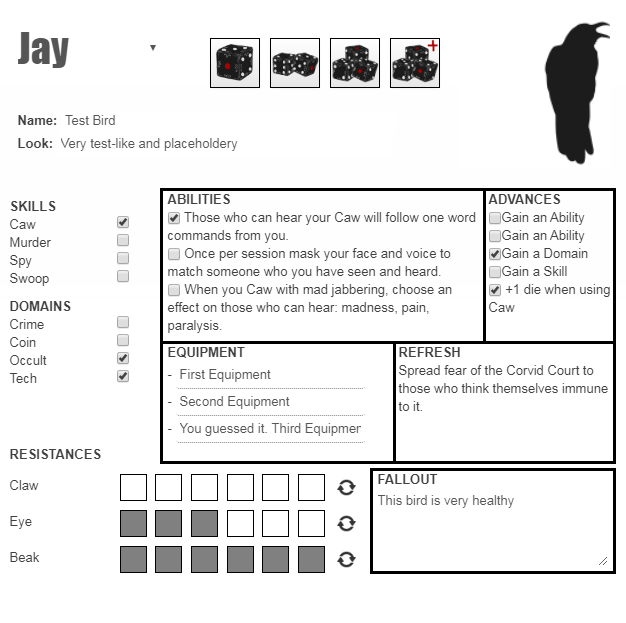
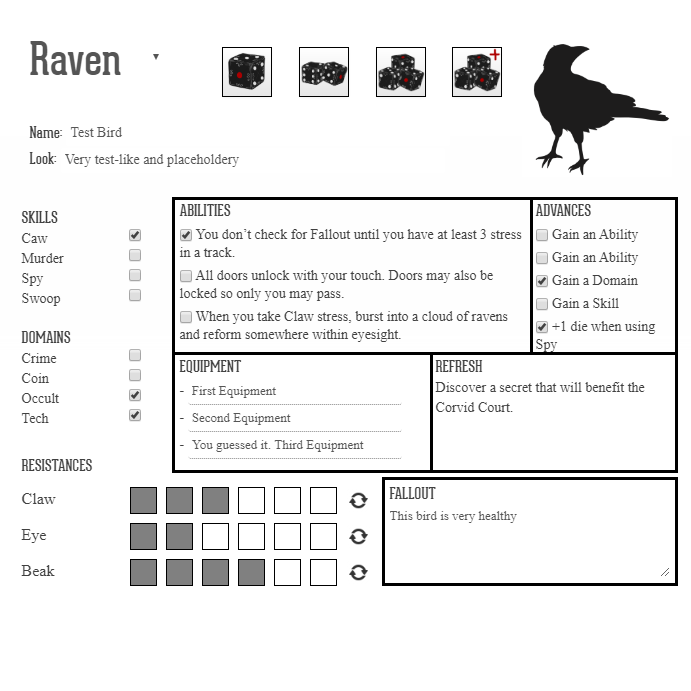
Font hooked up, preview updated

diff --git a/CorvidCourt/corvid.html b/CorvidCourt/corvid.html
@@ -13,16 +13,16 @@
 
   <div class="buttons">
     <button type="roll" value="&{template:roll} {{rolltitle=ROLLING 1 DIE}} {{rollresult=[[1d6cf<3k1]]}}" name="Single_Die">
-      <img src="https://i.imgur.com/Lr0BhKz.png"/>
+      <img src="https://raw.githubusercontent.com/n-mann/roll20-character-sheets/master/CorvidCourt/assets/dice_1.png"/>
     </button>
     <button type="roll" value="&{template:roll} {{rolltitle=ROLLING 2 DICE}} {{rollresult=[[2d6cf<3k1]]}}" name="Two_Dice">
-      <img src="https://i.imgur.com/Fi90WgH.png"/>
+      <img src="https://raw.githubusercontent.com/n-mann/roll20-character-sheets/master/CorvidCourt/assets/dice_2.png"/>
     </button>
     <button type="roll" value="&{template:roll} {{rolltitle=ROLLING 3 DICE}} {{rollresult=[[3d6cf<3k1]]}}" name="Three_Dice">
-      <img src="https://i.imgur.com/5CSwUBl.png"/>
+      <img src="https://raw.githubusercontent.com/n-mann/roll20-character-sheets/master/CorvidCourt/assets/dice_3.png"/>
     </button>
     <button type="roll" value="&{template:roll} {{rolltitle=ROLLING ?{How many dice?} DICE}} {{rollresult=[[?{How many dice?}d6cf<3k1]]}}" name="Multiple_Dice">
-      <img src="https://i.imgur.com/INGXX9K.png"/>
+      <img src="https://raw.githubusercontent.com/n-mann/roll20-character-sheets/master/CorvidCourt/assets/dice_p.png"/>
     </button>
   </div>
 
@@ -32,10 +32,10 @@
   </div>
 
   <div class="class-icon">
-    <img class="crow-only" src="https://i.imgur.com/cWXM0lM.png"/>
-    <img class="raven-only" src="https://i.imgur.com/xezvkEd.png"/>
-    <img class="jay-only" src="https://i.imgur.com/m16p6Y8.png"/>
-    <img class="magpie-only" src="https://i.imgur.com/NuEZzGA.png"/>
+    <img class="crow-only" src="https://raw.githubusercontent.com/n-mann/roll20-character-sheets/master/CorvidCourt/assets/crow.png"/>
+    <img class="raven-only" src="https://raw.githubusercontent.com/n-mann/roll20-character-sheets/master/CorvidCourt/assets/raven.png"/>
+    <img class="jay-only" src="https://raw.githubusercontent.com/n-mann/roll20-character-sheets/master/CorvidCourt/assets/jay.png"/>
+    <img class="magpie-only" src="https://raw.githubusercontent.com/n-mann/roll20-character-sheets/master/CorvidCourt/assets/magpie.png"/>
   </div>
 
   <div class="skills-div">
@@ -85,10 +85,10 @@
     
     <div class="advances-div">
       <p><span class="title-text">ADVANCES</span>
-      <p><input type="checkbox" name="attr_advance_1"/>Gain an Ability</p>
-      <p><input type="checkbox" name="attr_advance_2"/>Gain an Ability</p>
-      <p><input type="checkbox" name="attr_advance_3"/>Gain a Domain</p>
-      <p><input type="checkbox" name="attr_advance_4"/>Gain a Skill</p>
+      <p><input type="checkbox" name="attr_advance_1"/> Gain an Ability</p>
+      <p><input type="checkbox" name="attr_advance_2"/> Gain an Ability</p>
+      <p><input type="checkbox" name="attr_advance_3"/> Gain a Domain</p>
+      <p><input type="checkbox" name="attr_advance_4"/> Gain a Skill</p>
       <p><input type="checkbox" name="attr_advance_5"/>
         <span class="crow-only">+1 die when using Murder</span>
         <span class="raven-only">+1 die when using Spy</span>
@@ -166,8 +166,8 @@
 </div>
 
 <rolltemplate class="sheet-rolltemplate-roll">
-  <div class="roll">
-    <span class="title-text">{{rolltitle}}</span>
-    {{rollresult}}: {{#rollWasFumble() rollresult}}Failure{{/rollWasFumble() rollresult}}{{#^rollWasFumble() rollresult}}Success{{#^rollWasCrit() rollresult}}, with consequences{{/^rollWasCrit() rollresult}}{{/^rollWasFumble() rollresult}}
+  <div>
+    <p class="sheet-title-text">{{rolltitle}}</p>
+    <p>{{rollresult}}: {{#rollWasFumble() rollresult}}Failure{{/rollWasFumble() rollresult}}{{#^rollWasFumble() rollresult}}Success{{#^rollWasCrit() rollresult}}, with consequences{{/^rollWasCrit() rollresult}}{{/^rollWasFumble() rollresult}}</p>
   </div>
 </rolltemplate>

diff --git a/CorvidCourt/corvid.css b/CorvidCourt/corvid.css
@@ -5,14 +5,24 @@ input[value=magpie]:not(:checked) ~ div .sheet-magpie-only {
   display: none;
 }
 
+@font-face {
+  font-family: gearedSlab;
+  src: url(https://raw.githubusercontent.com/n-mann/roll20-character-sheets/master/CorvidCourt/fonts/GearedSlab.ttf);
+}
+
+@font-face {
+  font-family: plantin;
+  src: url(https://raw.githubusercontent.com/n-mann/roll20-character-sheets/master/CorvidCourt/fonts/Plantin.ttf);
+}
+
 .sheet-title-text {
-  font-weight: bolder;
-  /* font-family: */
+  font-family: gearedSlab;
+  font-size: 16px;
 }
 
 select.sheet-class {
-  font-family: impact;
-  font-size: 40px;
+  font-family: gearedSlab;
+  font-size: 46px;
   height: 60px;
   width: auto;
   border: none;
@@ -55,12 +65,15 @@ div.sheet-line-field {
   top: 85px;
   left: 0;
   right: 200px;
+  font-size: 18px;
 }
 div.sheet-line-field input[type=text] {
   left: 0;
   width: calc(100% - 50px);
   border: none;
-  padding-top: 1px;
+  padding-top: 3px;
+  font-size: 14px;
+  font-family: plantin;
 }
 
 div.sheet-class-icon {
@@ -81,12 +94,16 @@ div.sheet-class-icon {
   top: 180px;
   width: 120px;
   position: absolute;
+  font-family: plantin;
+  font-size: 14px;
 }
 
 .sheet-domains-div {
   top: 300px;
   width: 120px;
   position: absolute;
+  font-family: plantin;
+  font-size: 14px;
 }
 
 
@@ -103,12 +120,16 @@ div.sheet-class-icon {
   height: 270px;
   position: absolute;
   border: 3px solid black;
+  font-family: plantin;
+  font-size: 14px;
 }
 .sheet-main-div div {
   padding-top: 2px;
 }
 .sheet-main-div p {
   margin-bottom: 5px;
+  font-family: plantin;
+  font-size: 14px;
 }
 .sheet-abilities-div {
   border-right: 3px solid black;
@@ -133,7 +154,7 @@ div.sheet-class-icon {
   border-right: 3px solid black;
   height: 115px;
   width: 50%;
-  padding-top: 5px!important;
+  padding-top: 3px!important;
   padding-left: 5px;
 }
 .sheet-equipment-div input {
@@ -146,7 +167,7 @@ div.sheet-class-icon {
   top: 153px;
   right: 0;
   height: 117px;
-  padding-top: 5px!important;
+  padding-top: 3px!important;
   padding-left: 8px;
   width: calc(50% - 11px);
 }
@@ -158,6 +179,8 @@ div.sheet-resistances {
 }
 div.sheet-resistances table {
   width: 100%;
+  font-family: plantin;
+  font-size: 16px;
 }
 div.sheet-resistances td {
   vertical-align: middle;
@@ -210,6 +233,7 @@ div.sheet-resistances input[type=radio]:first-of-type {
   height: 100px;
   width : calc(100% - 365px);
   border: 3px solid black;
+  padding-top: 3px;
   padding-left: 5px;
 }
 
@@ -220,13 +244,37 @@ div.sheet-resistances input[type=radio]:first-of-type {
   bottom: 5px;
   margin: 0;
   padding: 0;
-  height: calc(100% - 2em);
+  height: calc(100% - 2.5em);
   width: calc(100% - 10px);
   border: none;
+  font-family: plantin;
 }
 
-.sheet-roll {
+.sheet-rolltemplate-roll p.sheet-title-text {
+  font-weight: bolder;
+  border-bottom: 1px solid black;
+  padding-left: 3px;
+  padding-top: 3px;
+  margin-bottom: 6px;
+  width: 100%;
+  font-family: gearedSlab;
+  font-size: 16px;
+}
+.sheet-rolltemplate-roll p:last-of-type {
+  margin-bottom: 2px;
+  text-align: center;
+  font-family: plantin;
+}
+.sheet-rolltemplate-roll div {
   border: 3px solid black;
   background: white;
-  width: 100%;
+  padding-bottom: 3px;
+  width: 95%;
+}
+.sheet-rolltemplate-roll div > span {
+  text-align: center;
+}
+.sheet-rolltemplate-roll span.inlinerollresult {
+  border: 2px solid black;
+  background-color: lightgray!important;
 }
